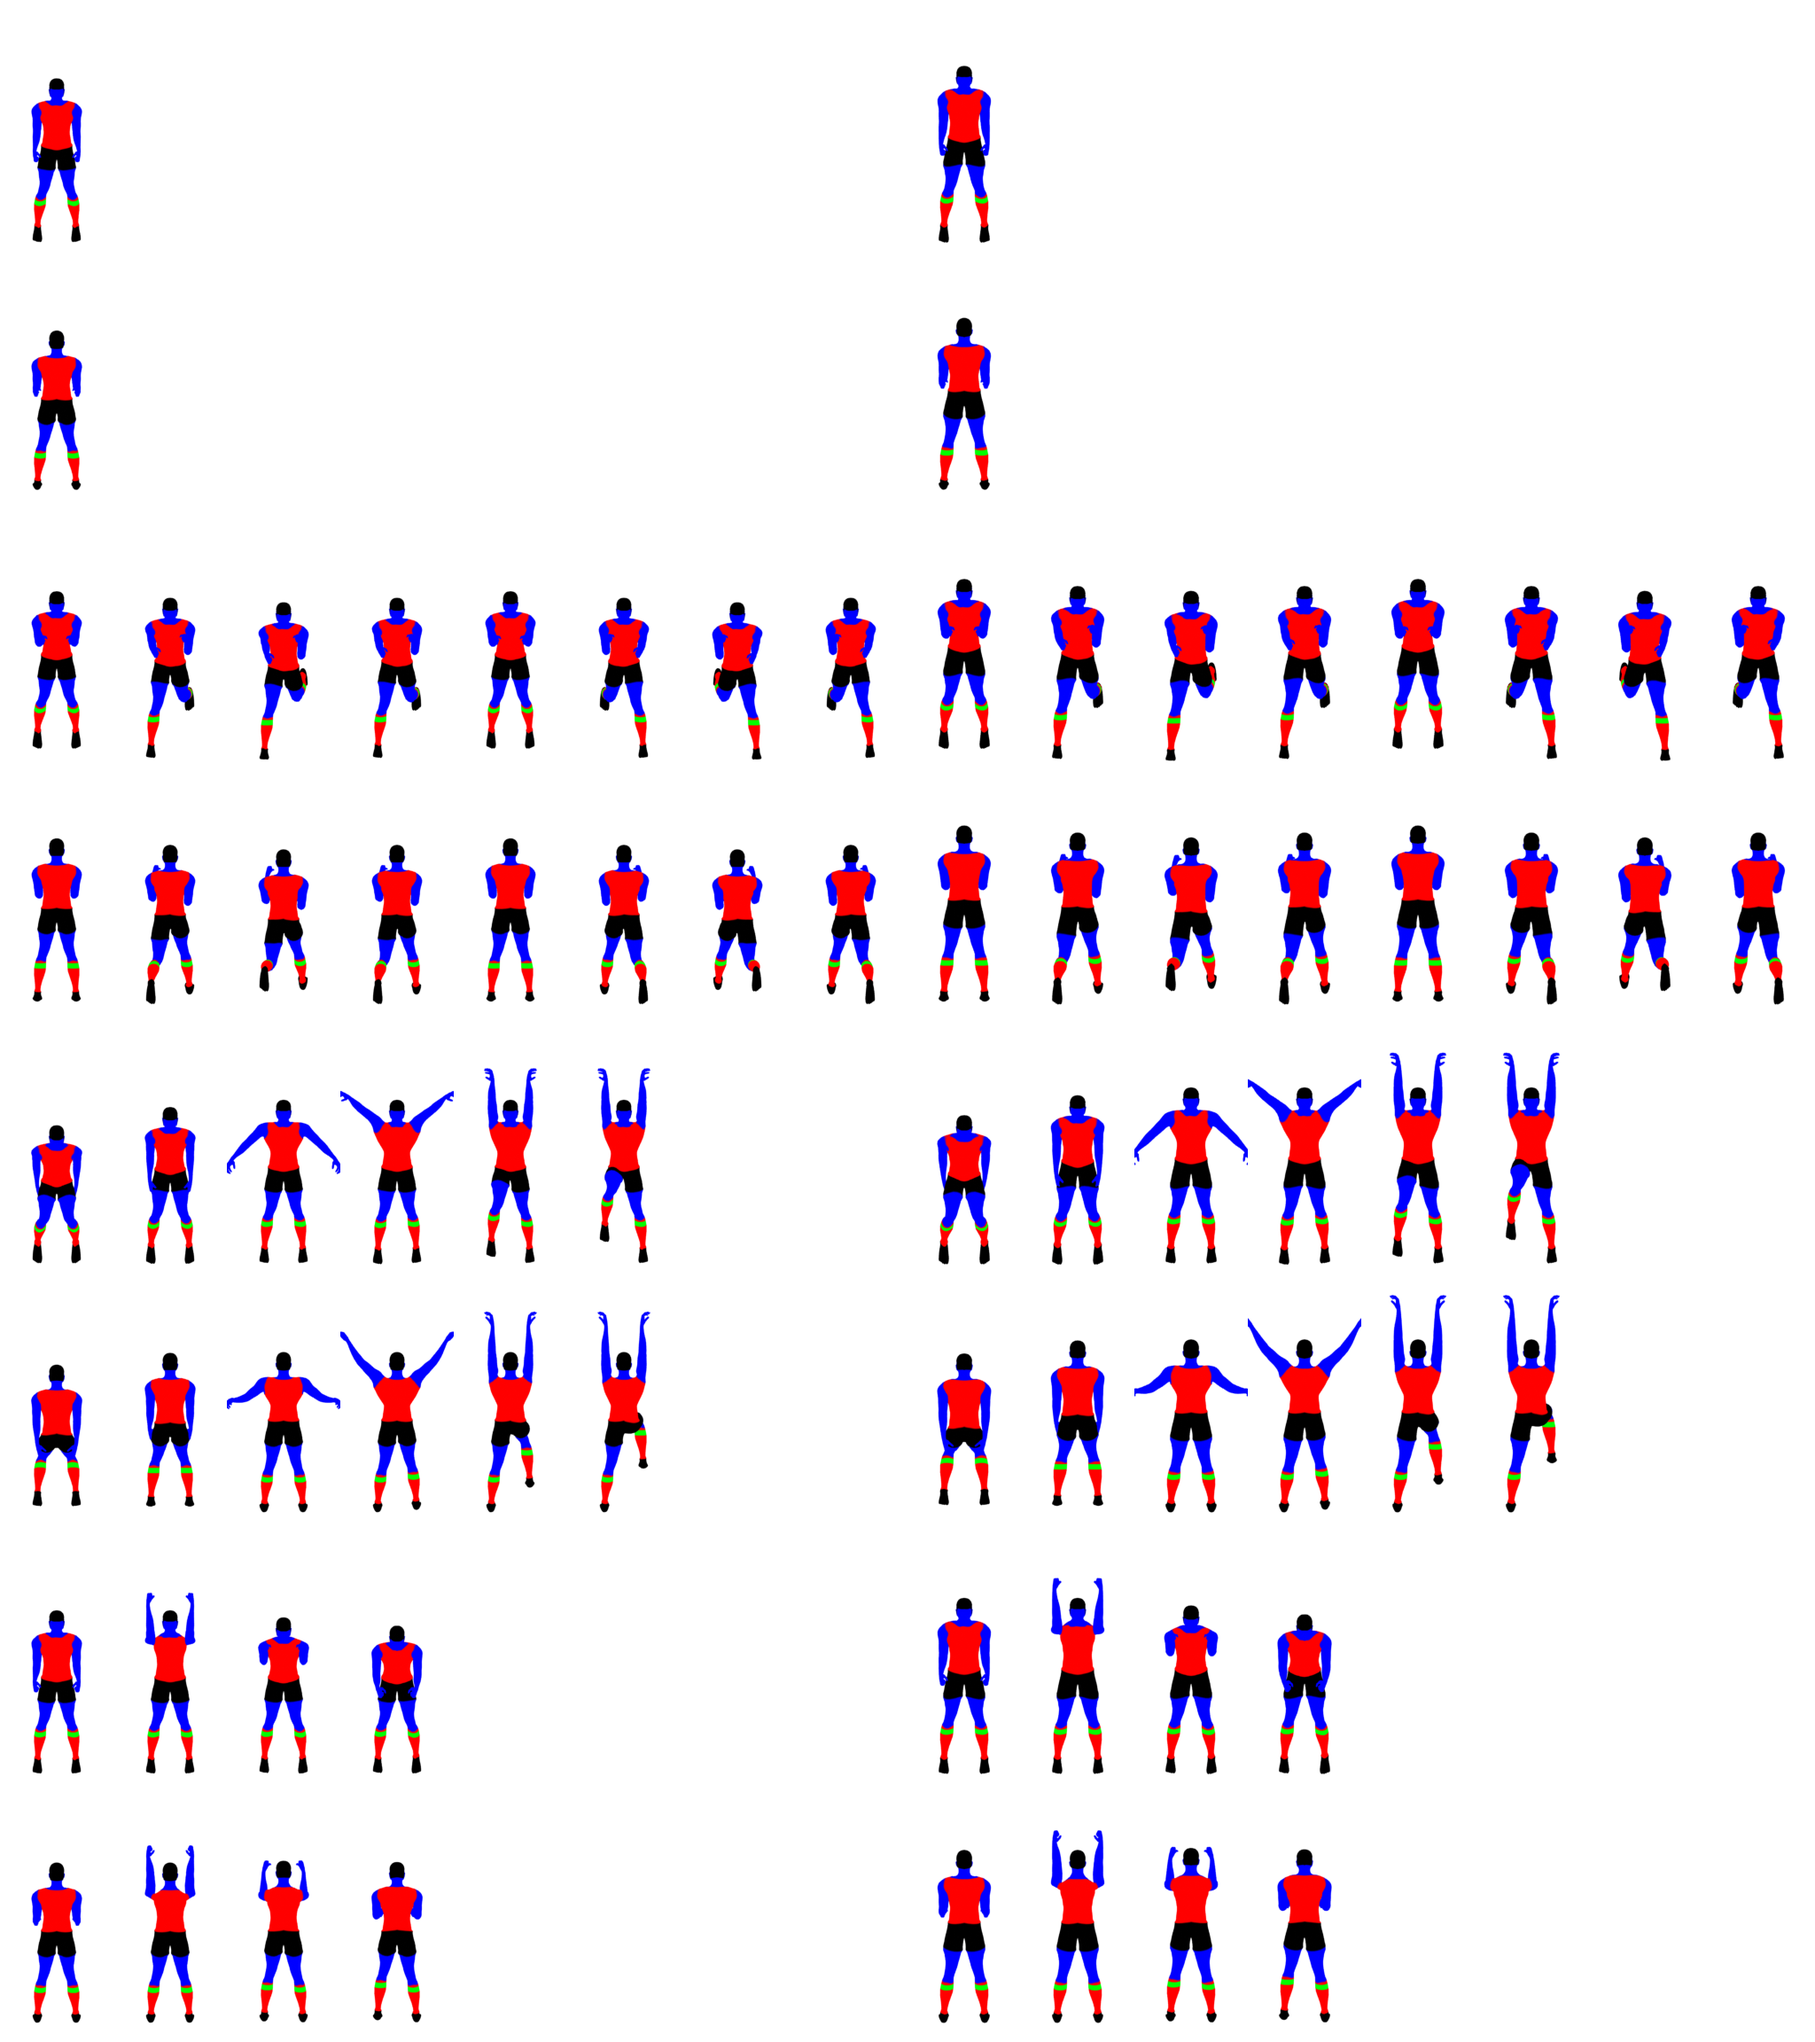
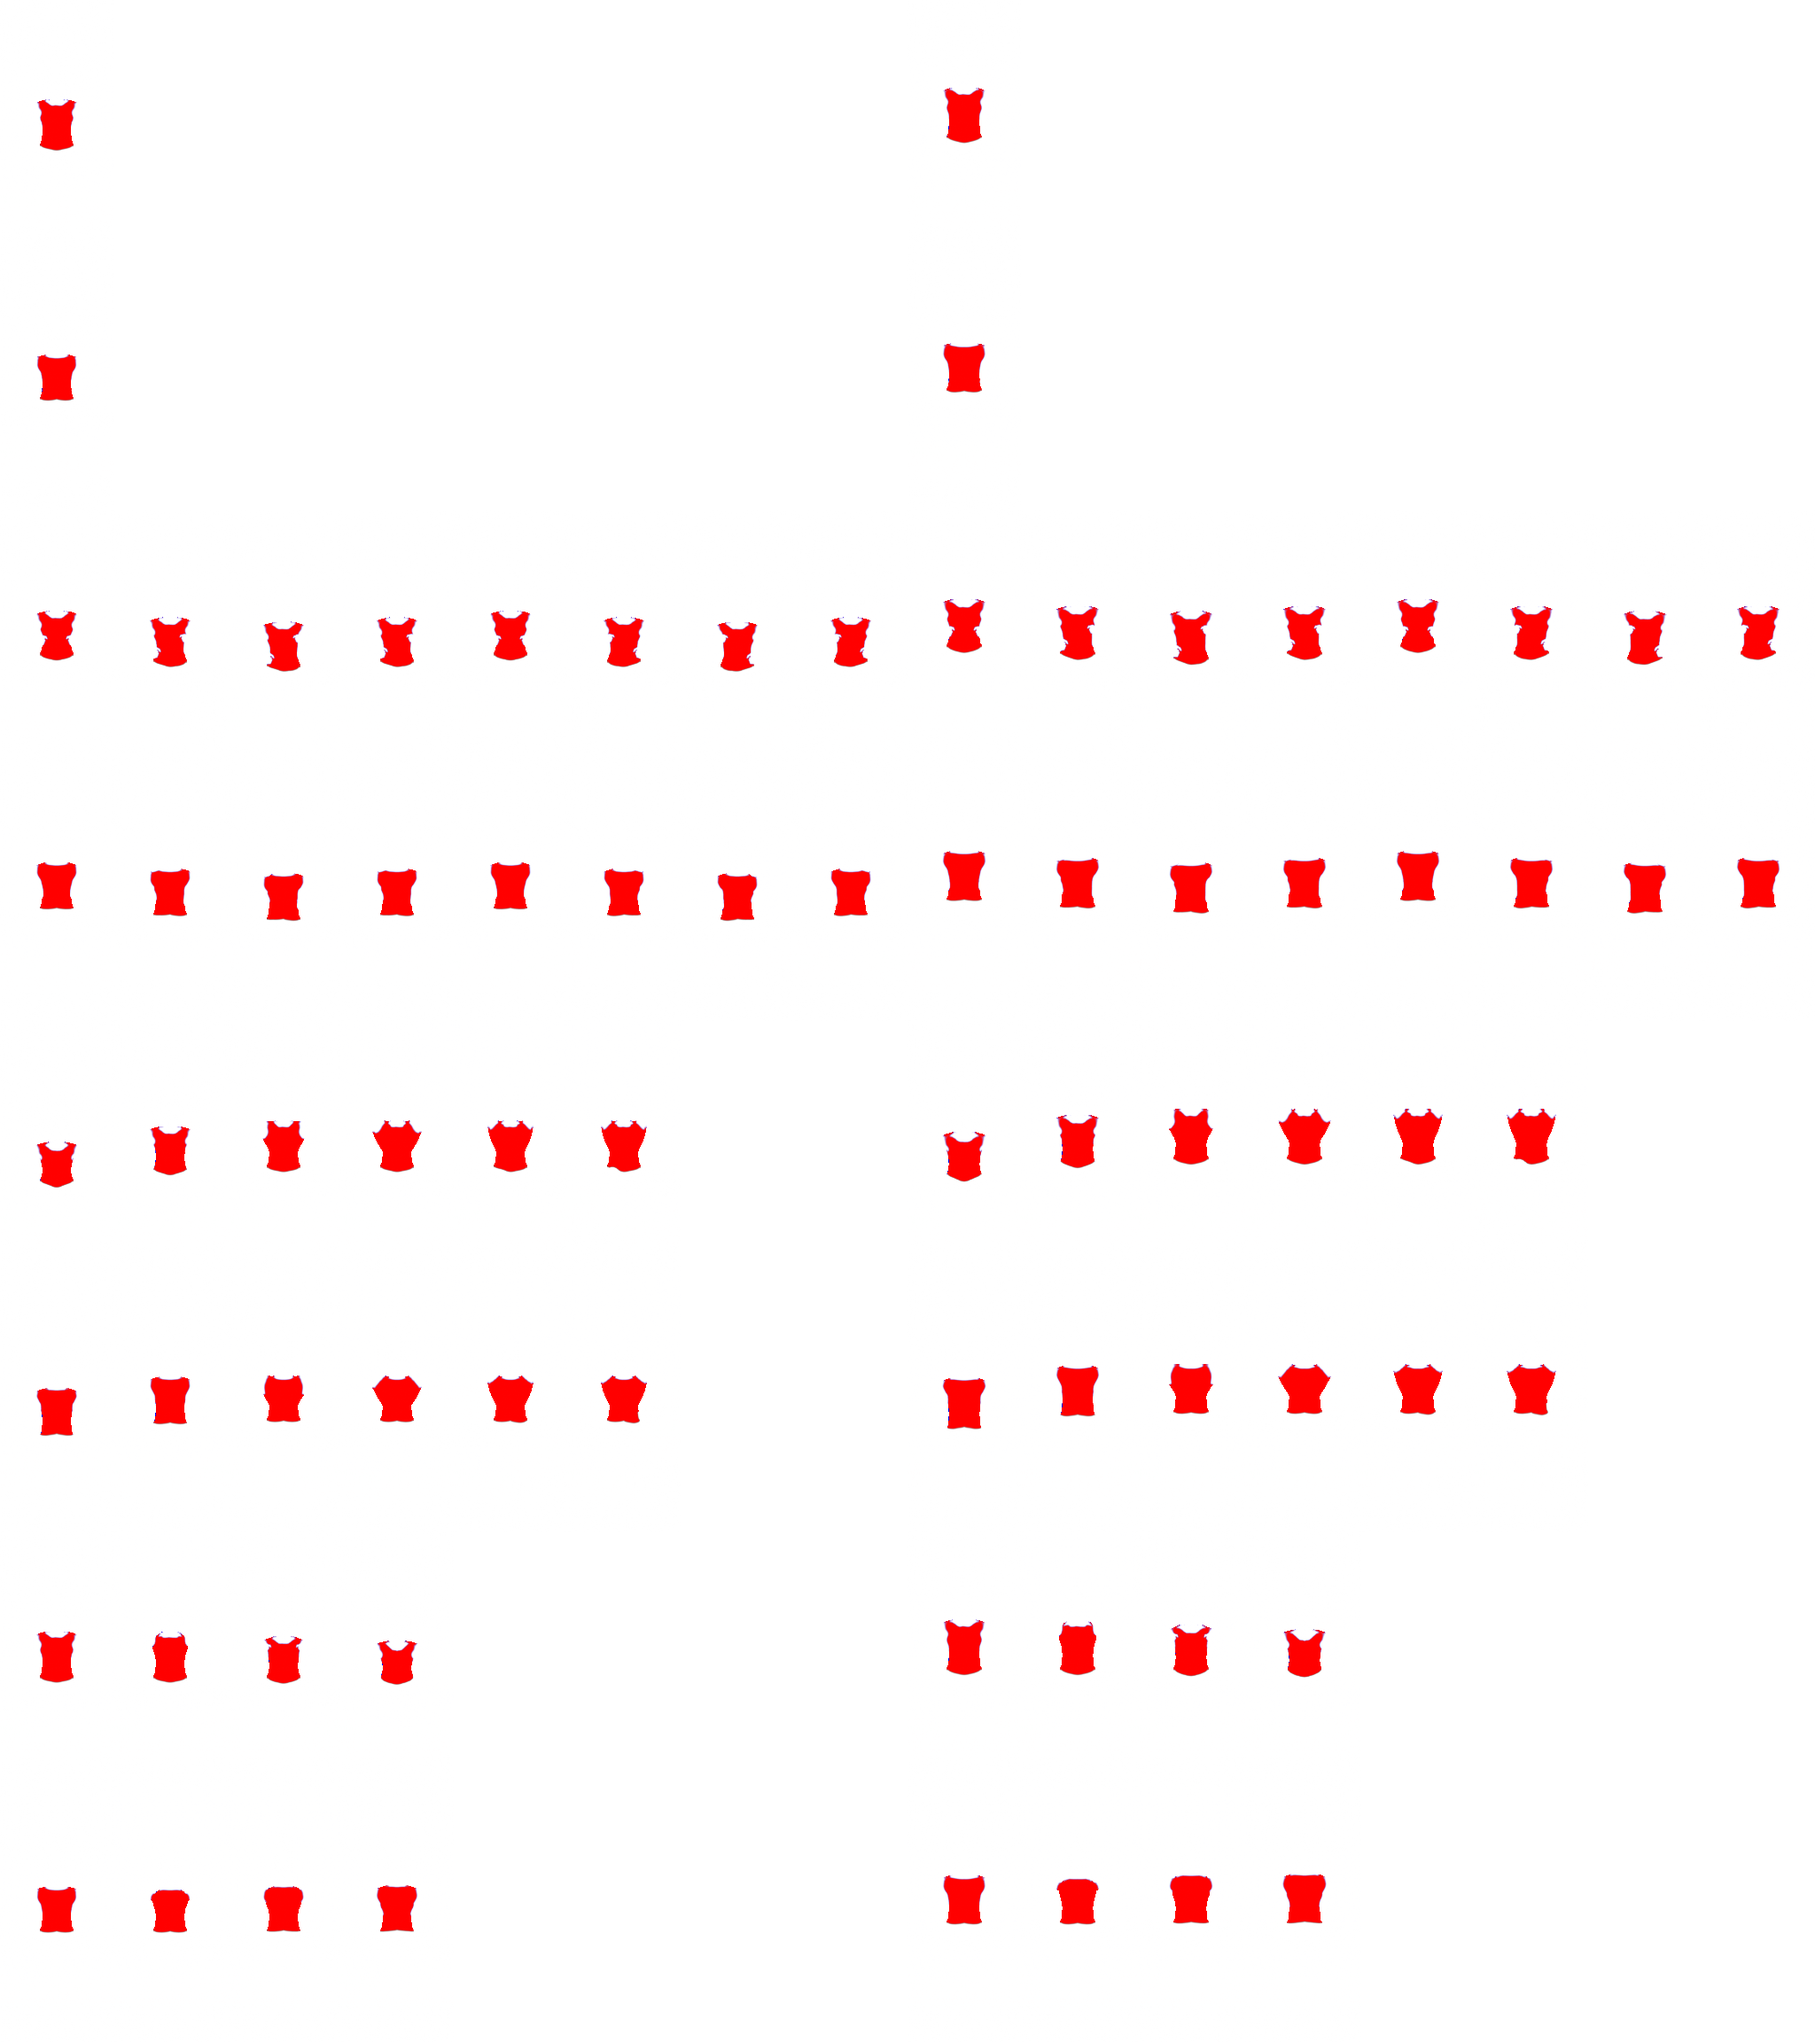
Vignette figures: club guernsey designs
Each club's home guernsey is a row in data/clubs.csv ("guernsey"): a design
and which club colours are its base and pattern, e.g. Richmond "sash:s/p/a"
(a black guernsey with a yellow sash). GameDB.club_guernsey() reads it.

- figure.gdshader draws plain, stripes, hoops, sash, yoke, band, chevrons
  and panels from where each pixel sits on the guernsey (a new half-size
  figures_design.png from ard-asset-pipeline), anti-aliased per pixel.
- Socks take the guernsey's base colour with a band in its pattern colour.
- Back numbers are edged in the guernsey's base colour so they read across
  stripes and panels.
- tools/visual/capture_guernseys.gd shows every club, front and back.
- figures_mask.png's alpha is now the guernsey alone, so its import keeps
  fix_alpha_border off (the pipeline bleeds edges itself).

To confirm: Brisbane, Gold Coast, GWS, Port Adelaide, West Coast and
Tasmania are plain until their designs are given; Canberra has none.

matchday 322 (+1: every club's guernsey is wearable) / match_visual 68 /
club / league / expansion / finals / save pass; validate_data passes.

diff --git a/docs/ROADMAP.md b/docs/ROADMAP.md
@@ -3529,7 +3529,8 @@ On the director's direction, the drawn stick figures became pre-rendered 2.5D fo
 - **What:** one sprite sheet (`assets/vignette/figures_*.png`) of rigged footballers rendered offline from a front and a back camera pitched like the vignette's: an average build (midfielders, umpire) and a taller ruck build; idle, jog, ruck leap and the umpire's bounce. `figure.gdshader` recolours them per club at draw time, so one sheet serves all 20 clubs; your players show their numbers. `VignetteFigures.gd` (generated) holds the layout.
 - **Where they come from:** the separate `ard-asset-pipeline` repo (`build_vignette_figures.sh --install`), from a CC0 MPFB body; rebuilding reproduces the sheet exactly.
 - **Unchanged:** the camera, beats, positions, who is shown and MatchSim's authority. The pre-match scene uses the same figures.
-- **Still open:** every player still has the one default skin tone - the shader takes a skin and hair per figure, but the appearance data (the "Vignette player representation / appearance bug" item) is not built. Guernsey designs (stripes, hoops) need a design per club; today a guernsey is the club's primary colour.
+- **Still open:** every player still has the one default skin tone - the shader takes a skin and hair per figure, but the appearance data (the "Vignette player representation / appearance bug" item) is not built.
+- **Guernsey designs:** each club's home guernsey is a row in `data/clubs.csv` ("guernsey": a design - plain, stripes, hoops, sash, yoke, band, chevrons, panels - and which club colours are its base and pattern, e.g. Richmond `sash:s/p/a`). The shader draws the design from where each pixel sits on the guernsey; socks take the base colour with a band in the pattern colour; back numbers are edged in the base colour so they read across stripes. `tools/visual/capture_guernseys.gd` shows every club, front and back. **To confirm by the director:** Brisbane, Gold Coast, GWS, Port Adelaide, West Coast and Tasmania are plain until their designs are given; Canberra (an expansion club) has no real guernsey. Shorts still follow the old rule (the club's secondary colour).
 - **Tests:** `_bounce_close_up` checks the figures wear both clubs' colours and the sheet holds every move the scene plays.
 
 ### Acceptance test
